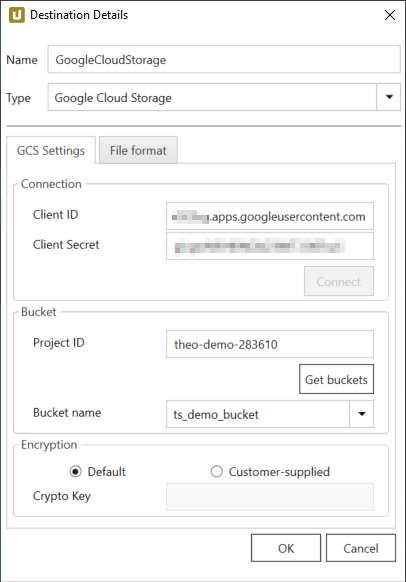
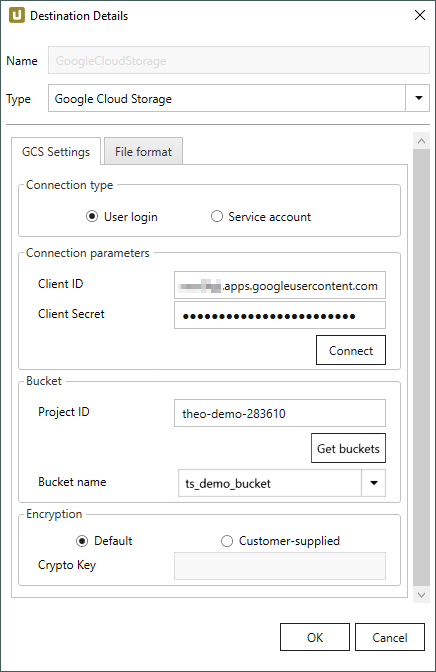
google storage auth via service account

Changed region(s): [[0.0, 0.0, 1.0, 1.0], [0.9458, 0.0, 1.0, 0.0309]]

diff --git a/content/_de/xtract-universal/destinationen/google-cloud-storage.md b/content/_de/xtract-universal/destinationen/google-cloud-storage.md
@@ -76,6 +76,10 @@ Wählen Sie "Desktop app" als Applikationstyp aus, vergeben Sie einen beliebigen
 Die "Client ID" und der "Client secret" sind für die Konfiguration der Destination in Xtract Universal notwendig (siehe [Verbindung](#verbindung)).
 ![xu-google-cloud-req-16](/img/content/xu/googlecloudstorage/xu-google-cloud-req-16.png){:class="img-responsive"}
 
+
+{: .box-note }
+Hinweis: Ab Version 5.11.16 unterstützt Xtract Universal auch die Authentifizierung über ein Dienstkonto. Voraussetzung ist, dass der Designer und der XU Server auf derselben Maschine laufen.
+
 ## Verbindung
 
 {% include _content/de/xu-specific/destinationen/general/connection.md %}	 
@@ -85,7 +89,19 @@ Die "Client ID" und der "Client secret" sind für die Konfiguration der Destinat
 
 ### GCS Settings
 
-#### Connection
+
+#### Connection Type
+
+- Wählen Sie **User Login**, um sich mit Ihrer OAuth Client ID einzuloggen, siehe [Connection Parameters](#connection-parameters).<br>
+- Wählen Sie **Service Account** um sich mit einem Dienstkonto einzuloggen, siehe [Service Acccount File Location](#service-acccount-file-location).
+
+{: .box-note }
+**Hinweis**: Um ein Dienstkonto für die Authentifizierung zu verwenden, müssen der Xtract Universal Designer und der XU Server auf derselben Maschine laufen.
+
+#### Connection Parameters
+
+Die folgenden Optionen sind nur verfügbar, wenn **User Login** als Authentifizierungsmethode ausgewählt ist.
+
 **Client ID**<br>
 *Client ID* erstellt im OAuth 2.0-Setup (siehe [Voraussetzungen](#requirements)).
 
@@ -94,12 +110,27 @@ Die "Client ID" und der "Client secret" sind für die Konfiguration der Destinat
 
 **Connect**<br>
 Verarbeitet den zuvor erstellten OAuth-Flow, um eine Verbindung mit dem Speicherkonto herzustellen.
-Wählend Sie Ihr Google-Konto aus und gewähren Sie Xtract Universal Zugriff in allen erforderlichen Fenstern. <br>
+Wählen Sie Ihr Google-Konto aus und gewähren Sie Xtract Universal Zugriff in allen erforderlichen Fenstern. <br>
 
 {: .box-note }
 **Hinweis**: Wenn Sie die Anwendung nicht verifiziert haben, erscheint ein Fenster mit der Meldung: "This App isn't verified" (Diese App ist nicht verifizert). Klicken Sie auf **[Advanced]** und **[Go to Xtract Universal (unsafe)]**. <br>  
 
 Nach einer erfolgreichen Verbindung erscheint die Meldung: "Authentication succeeded" (Authentifizierung erfolgreich)  im Browser. In Xtract Universal wird die Meldung "Connection established" (Verbindung hergestellt" in einem separaten Fenster angezeigt. <br>  
+
+#### Service Account File Location
+
+Die folgenden Optionen sind nur verfügbar, wenn **Service Account** als Authentifizierungsmethode ausgewählt ist.
+
+**Key File**<br>
+Das Dienstkonto wird über ein RSA Schlüsselpaar identifiziert.
+Wenn Sie die Schlüssel erstellen, erhalten Sie eine Dienstkontodatei von Google, die Informationen über das Konto enthält.
+Geben Sie das Verzeichnis an, in dem die Dienstkontodatei abgelegt ist. 
+Der Xtract Universal Designer und der XU Server müssen auf derselben Maschine laufen.
+
+**Connect**<br>
+Klicken Sie auf **[Connect]**, um eine Verbindung mit dem Speicherkonto herzustellen.
+Wählen Sie Ihr Google-Konto aus und gewähren Sie Xtract Universal Zugriff in allen erforderlichen Fenstern.
+
 
 #### Bucket
 Der Unterabschnitt "Bucket" kann nach einer erfolgreichen Verbindung zum Google-Cloud-Storage-Konto ausgefüllt werden.<br>

diff --git a/content/_en/xtract-universal/destinations/google-cloud-storage.md b/content/_en/xtract-universal/destinations/google-cloud-storage.md
@@ -77,6 +77,9 @@ Select "Desktop app" as application type, give the app a name of your choice and
 The "Client ID" and the "Client secret" are needed for the destination configuration in Xtract Universal (see [Connection](#connection)).
 ![xu-google-cloud-req-16](/img/content/xu/googlecloudstorage/xu-google-cloud-req-16.png){:class="img-responsive"}
 
+{: .box-note }
+Note: As of version 5.11.16 Xtract Universal also supports authentication via a service account. Prerequisite is that the Designer and the XU server must run on the same machine.
+
 ## Connection
 
 {% include _content/en/xu-specific/destinations/general/connection.md %}	 
@@ -87,7 +90,18 @@ The "Client ID" and the "Client secret" are needed for the destination configura
 
 ### GCS Settings
 
-#### Connection
+#### Connection Type
+
+- Select **User Login** to log into Google Cloud Storage using the OAuth client ID authentication, see [Connection Parameters](#connection-parameters).<br>
+- Select **Service Account** to log into Google Cloud Storage using the credentials of a service account for authentication, see [Service Acccount File Location](#service-acccount-file-location).
+
+{: .box-note }
+**Note**: To use a service account for authentication, the Designer and the XU server must run on the same machine.
+
+#### Connection Parameters
+
+The following settings are only available if the *Connection Type* is set to **User Login**.
+
 **Client ID**<br>
 *Client ID* created in the OAuth 2.0 setup (see [Requirements](#requirements)).
 
@@ -102,6 +116,20 @@ Choose your Google account and grant access to Xtract Universal in all required 
 **Note**: If you did not verify the app, a window with the message: "This app isn't verified" is displayed. Click **[Advanced]** and **[Go to Xtract Universal (unsafe)]**. <br>  
 
 When a connection is successful, an "Authentication succeeded" message is displayed in the browser. In Xtract Universal a "Connection established" message is displayed in a separate window. <br>  
+
+#### Service Acccount File Location
+
+The following settings are only available if the *Connection Type* is set to **Service Account**.
+
+**Key File**<br>
+The service account is identified by a RSA key pair.
+When creating the keys, the user receives a service account file from Google containing information about the account.
+Provide the location of the service account file.
+Note that the Designer and the XU server must run on the same machine to use this authentication method.
+
+**Connect**<br>
+Click **[Connect]** to establish a connection with the storage account.
+Choose your Google account and grant access to Xtract Universal in all required windows. 
 
 #### Bucket
 The "Bucket" subsection can only be filled after a connection to the storage account has been established.<br>
